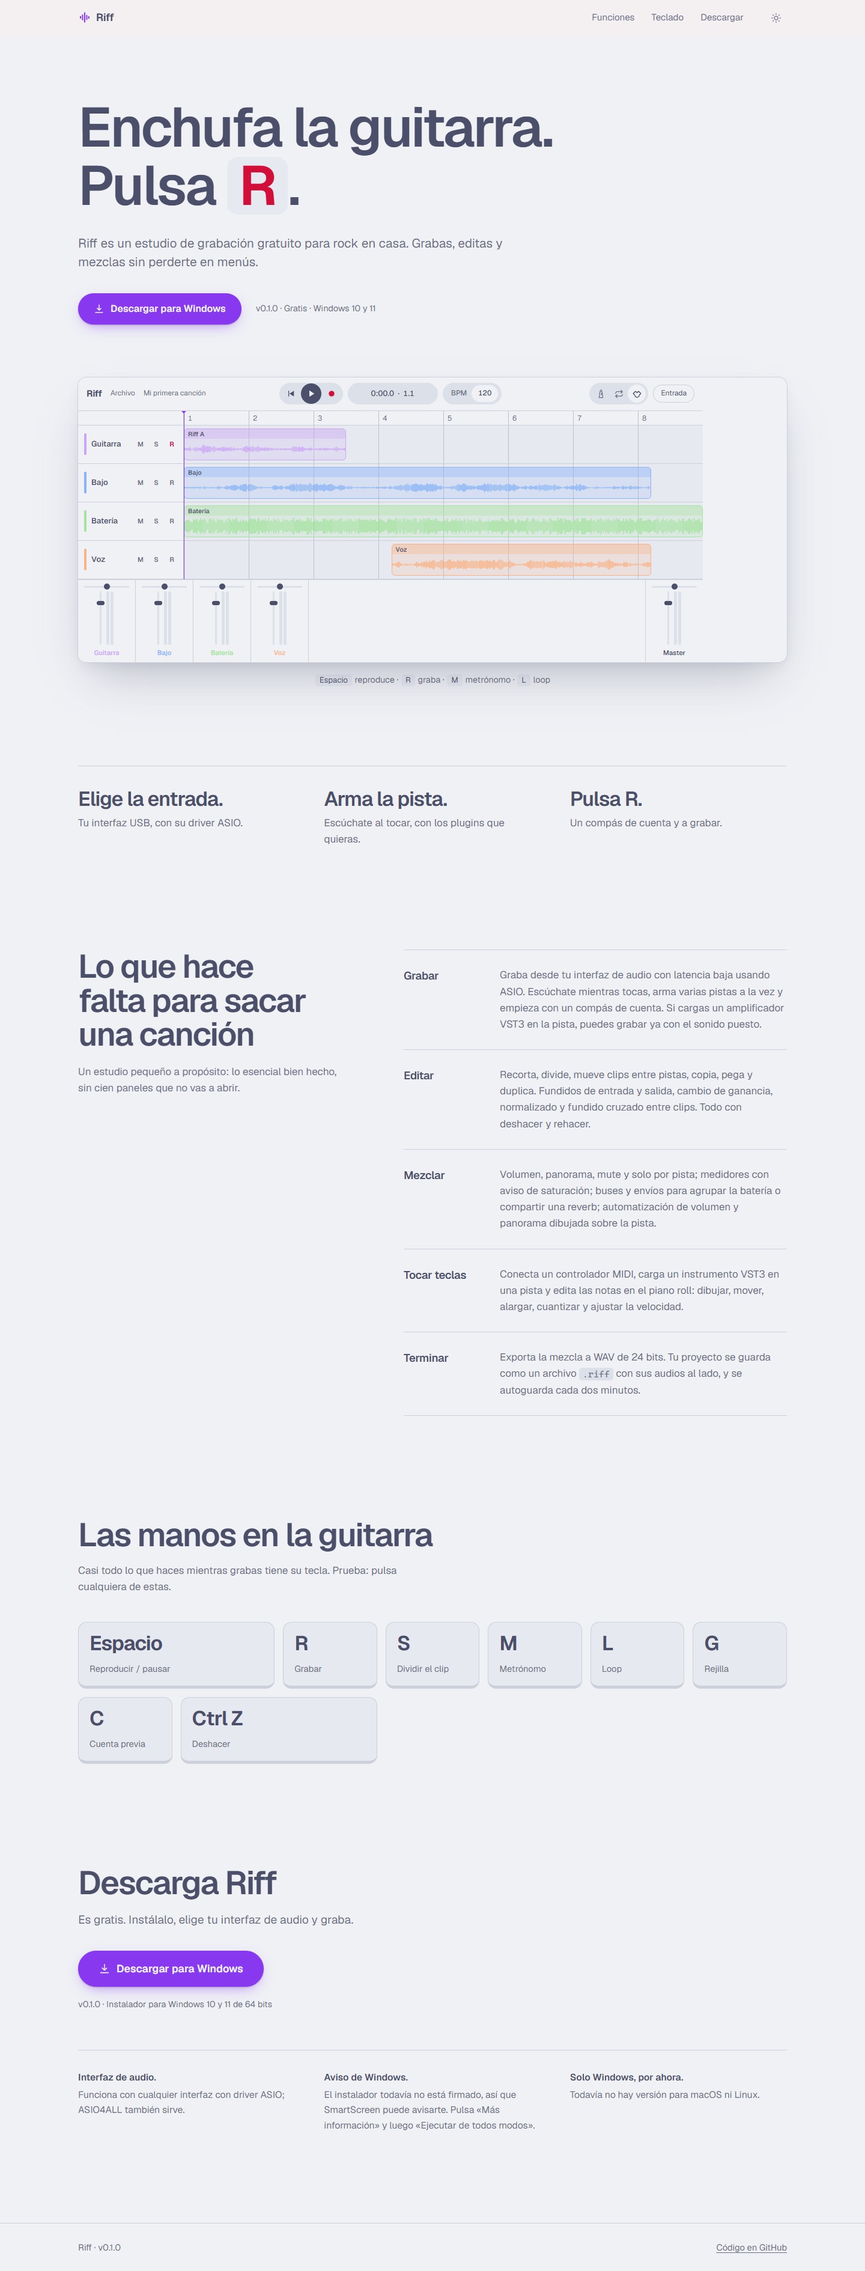
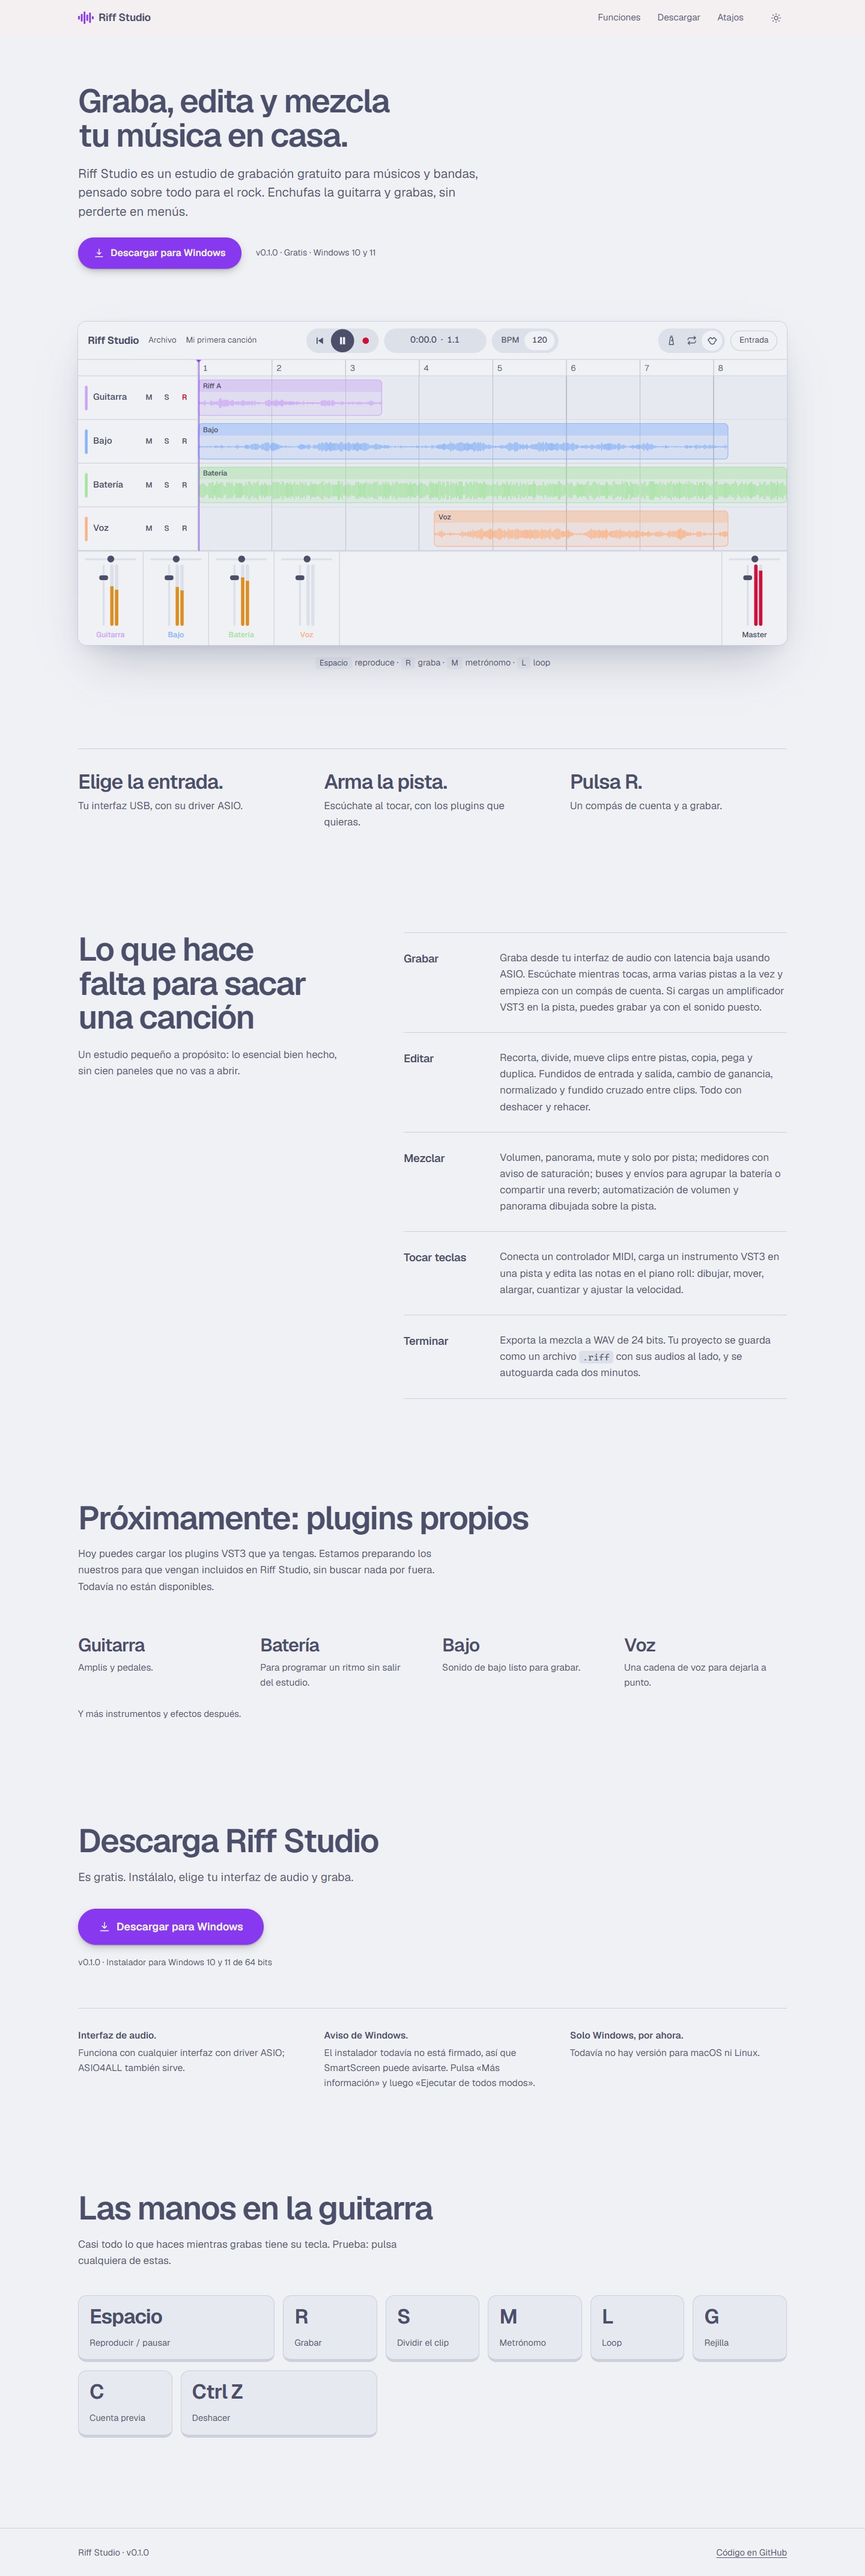
add

diff --git a/landing/index.html b/landing/index.html
@@ -3,9 +3,9 @@
 <head>
   <meta charset="utf-8" />
   <meta name="viewport" content="width=device-width, initial-scale=1" />
-  <title>Riff Studio · Graba, edita y mezcla rock en casa</title>
-  <meta name="description" content="Riff Studio es un estudio de grabación gratuito para Windows pensado para guitarristas y bandas: enchufas la guitarra, pulsas R y grabas." />
-  <meta property="og:title" content="Riff Studio · Graba, edita y mezcla rock en casa" />
+  <title>Riff Studio · Graba, edita y mezcla tu música en casa</title>
+  <meta name="description" content="Riff Studio es un estudio de grabación gratuito para Windows pensado para músicos y bandas, sobre todo de rock: enchufas la guitarra, pulsas R y grabas." />
+  <meta property="og:title" content="Riff Studio · Graba, edita y mezcla tu música en casa" />
   <meta property="og:description" content="Riff Studio, estudio de grabación gratuito para Windows. Enchufa la guitarra, pulsa R y graba." />
   <meta property="og:type" content="website" />
   <meta name="theme-color" content="#1e1e2e" />
@@ -41,8 +41,8 @@
 
   <main id="contenido">
     <section class="hero">
-      <h1>Graba, edita y mezcla rock en casa.</h1>
-      <p class="lead">Riff Studio es un estudio de grabación gratuito para guitarristas y bandas. Enchufas la guitarra y grabas, sin perderte en menús.</p>
+      <h1>Graba, edita y mezcla tu música en casa.</h1>
+      <p class="lead">Riff Studio es un estudio de grabación gratuito para músicos y bandas, pensado sobre todo para el rock. Enchufas la guitarra y grabas, sin perderte en menús.</p>
       <div class="cta">
         <a class="btn btn-primary" href="https://github.com/jhonadanil/Riff/releases/latest" data-download>
           <svg viewBox="0 0 24 24" width="18" height="18" fill="none" stroke="currentColor" stroke-width="2" stroke-linecap="round" stroke-linejoin="round" aria-hidden="true"><path d="M12 3v12m0 0-4.5-4.5M12 15l4.5-4.5M4 20h16"/></svg>
@@ -123,6 +123,18 @@
           <dd>Exporta la mezcla a WAV de 24 bits. Tu proyecto se guarda como un archivo <code>.riff</code> con sus audios al lado, y se autoguarda cada dos minutos.</dd>
         </div>
       </dl>
+    </section>
+
+    <section class="soon" id="proximamente">
+      <h2>Próximamente: plugins propios</h2>
+      <p class="soon-lead">Hoy puedes cargar los plugins VST3 que ya tengas. Estamos preparando los nuestros para que vengan incluidos en Riff Studio, sin buscar nada por fuera. Todavía no están disponibles.</p>
+      <ul class="soon-list">
+        <li><strong>Guitarra</strong><span>Amplis y pedales.</span></li>
+        <li><strong>Batería</strong><span>Para programar un ritmo sin salir del estudio.</span></li>
+        <li><strong>Bajo</strong><span>Sonido de bajo listo para grabar.</span></li>
+        <li><strong>Voz</strong><span>Una cadena de voz para dejarla a punto.</span></li>
+      </ul>
+      <p class="soon-more">Y más instrumentos y efectos después.</p>
     </section>
 
     <section class="get" id="descargar">

diff --git a/landing/style.css b/landing/style.css
@@ -247,6 +247,14 @@ h2 { font-size: clamp(2rem, 4.6vw, 3.4rem); }
 .cap span { font-size: 0.92rem; color: var(--muted-foreground); }
 .cap.is-down { transform: translateY(4px); border-bottom-width: 1px; border-color: var(--primary); background: color-mix(in oklch, var(--primary) 12%, var(--card)); }
 
+.soon { padding-top: clamp(96px, 13vw, 170px); }
+.soon-lead { margin-top: 18px; max-width: 38em; color: var(--muted-foreground); }
+.soon-list { display: grid; grid-template-columns: repeat(4, 1fr); gap: 0 32px; margin: 44px 0 0; padding: 0; list-style: none; }
+.soon-list li { display: flex; flex-direction: column; gap: 8px; padding: 22px 0 0; border-top: 1px dashed var(--raised); }
+.soon-list strong { font-size: clamp(1.4rem, 2.4vw, 1.9rem); font-weight: 600; letter-spacing: -0.03em; line-height: 1.1; }
+.soon-list span { color: var(--muted-foreground); font-size: 0.98rem; max-width: 16em; }
+.soon-more { margin-top: 28px; color: var(--muted-foreground); font-size: 0.95rem; }
+
 .get { padding-top: clamp(96px, 13vw, 170px); padding-bottom: clamp(72px, 10vw, 120px); }
 .get-lead { margin: 18px 0 36px; color: var(--muted-foreground); font-size: 1.2rem; max-width: 30em; }
 .get .cta-note { margin-top: 18px; }
@@ -262,6 +270,7 @@ h2 { font-size: clamp(2rem, 4.6vw, 3.4rem); }
   .features { grid-template-columns: 1fr; }
   .features-head { position: static; }
   .steps ol, .get-notes { grid-template-columns: 1fr; }
+  .soon-list { grid-template-columns: repeat(2, 1fr); gap: 28px 24px; }
   .row { grid-template-columns: 1fr; }
   .cap-wide { grid-column: span 1; }
   .top-nav a:first-child { display: none; }

diff --git a/index.html b/index.html
@@ -2,7 +2,7 @@
 <html lang="es">
   <head>
     <meta charset="UTF-8" />
-    <link rel="icon" type="image/svg+xml" href="/tauri.svg" />
+    <link rel="icon" type="image/svg+xml" href="/favicon.svg" />
     <meta name="viewport" content="width=device-width, initial-scale=1.0" />
     <title>Riff Studio</title>
     <script>
